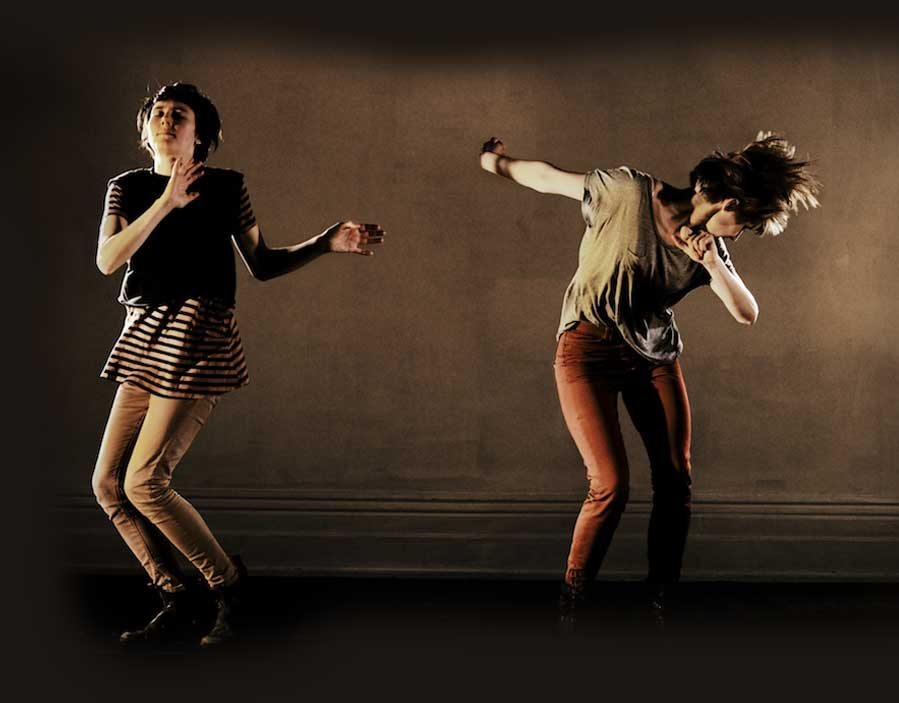
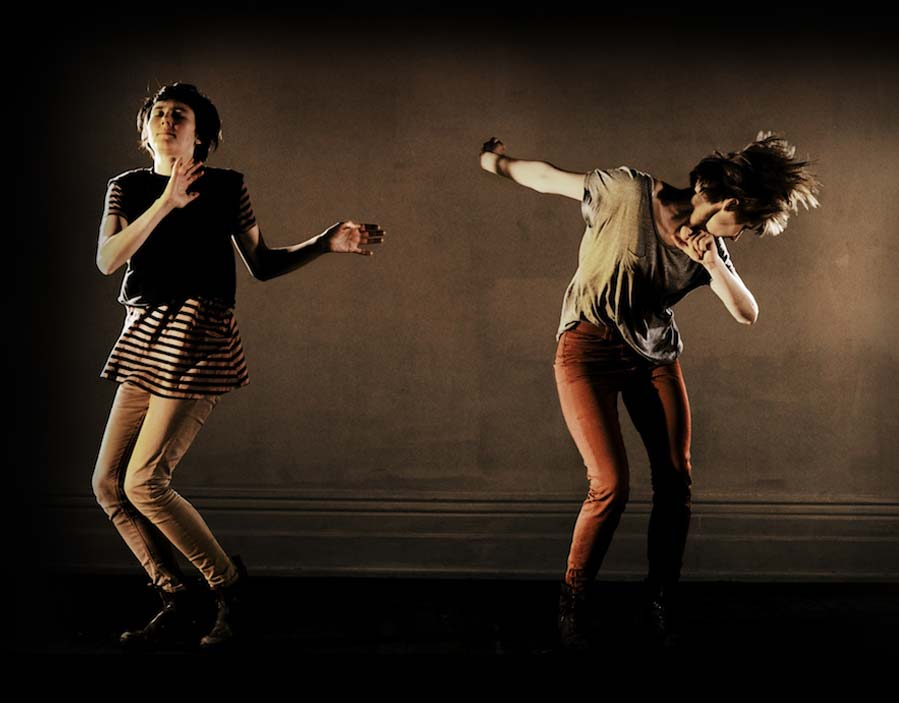
Changing out some parallax images

diff --git a/index.html b/index.html
@@ -65,7 +65,7 @@ title: Sample Page Title
 </div>
 
 
-<div class="quote quote--03">
+<div class="quote">
     <div class="quote__text-block quote__text-block--right">
         <img class="quote__text quote__text--large" src="{{baseurl}}img/quotes/quote-3-text.svg" width="518">
         <img class="quote__text quote__text--small" src="{{baseurl}}img/quotes/quote-3-small-text.svg" width="296">
